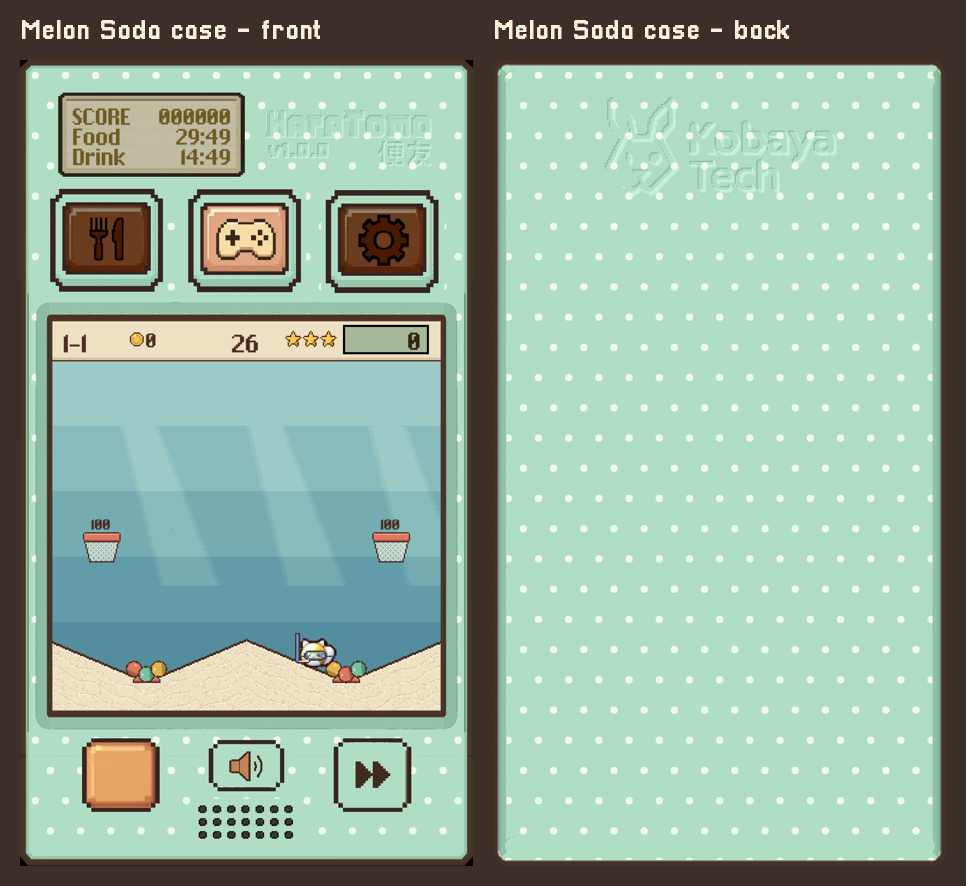
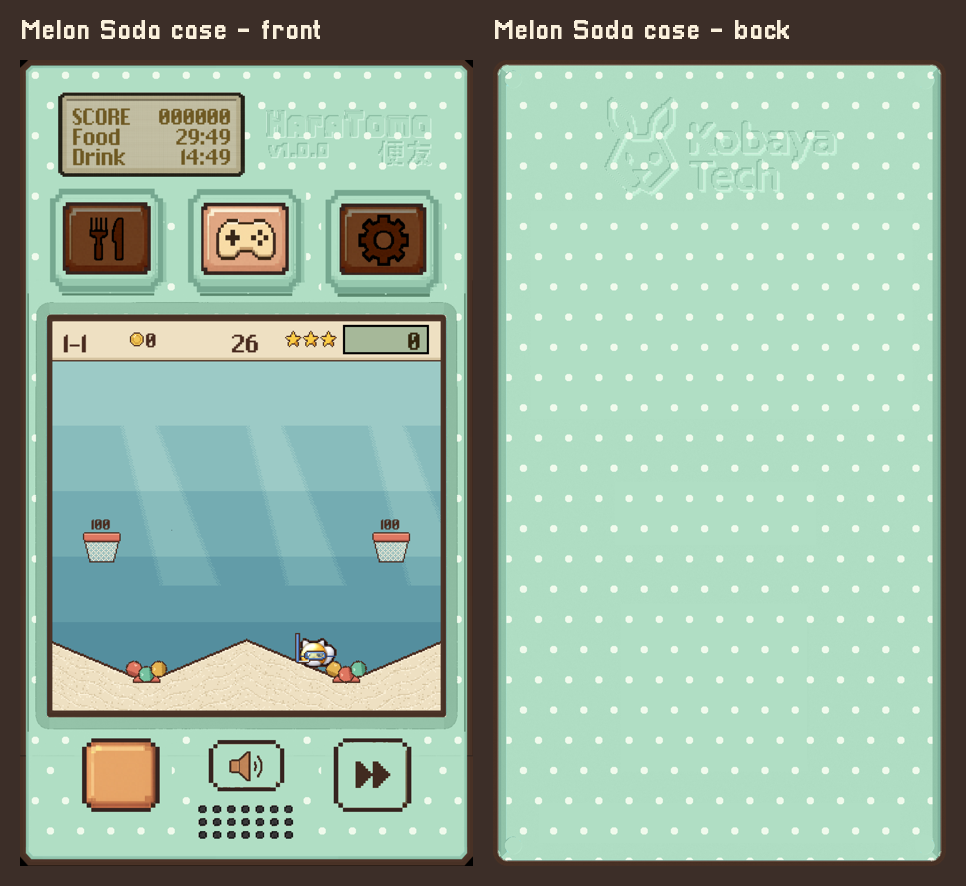
Melon Soda case front: menu frames back to the darker edge tone; bottom buttons untouched (no leak into their lower edge), no half dots by them or the speaker

Changed region(s): [[0.0311, 0.2133, 0.4658, 0.3352]]

diff --git a/tools/art/case_melon.py b/tools/art/case_melon.py
@@ -61,7 +61,7 @@ def make(path, keep_boxes, cover=(), logo_box=None, logo_tones=None, front_logo=
         ring &= ~shell                                 # (only the button's own frame: not the case round it)
         lum = rgb.sum(-1)
         hi = ring & (lum >= 600); mid = ring & (lum >= 330) & (lum < 600); lo = ring & (lum < 330)
-        rgb[hi] = BODY; rgb[mid] = (150, 200, 174)    # the bump: case colour (its dark brown outlines left as they are)
+        rgb[hi] = BODY; rgb[mid] = (150, 200, 174); rgb[lo] = EDGE   # the bump: case colour, its edge a darker tone
         # in the hole: whatever is OUTSIDE the button's dark outline (cream corners, a brown spot) is
         # case; inside the outline the button keeps every colour of its own
         sub = rgb[iy0 - 4:iy1 + 4, ix0 - 4:ix1 + 4]
@@ -81,9 +81,15 @@ def make(path, keep_boxes, cover=(), logo_box=None, logo_tones=None, front_logo=
     if path.endswith('w0_play.png'):
         # round every button: whatever light lies outside its dark outline (a cream stripe under it,
         # its lower corners) is case; the button and its outline stay exactly as they are
-        for (ox0, oy0, ox1, oy1) in AROUND:
+        from scipy.ndimage import binary_fill_holes
+        for (ox0, oy0, ox1, oy1) in AROUND[3:]:            # (the bottom buttons: the menu ones are done above)
             sub = rgb[oy0:oy1, ox0:ox1]
-            openp = sub.sum(-1) >= 330
+            # the button itself: its dark outline and everything inside it, never touched
+            dk = sub.sum(-1) < 330
+            lb, nb = label(dk)
+            sizes = [(lb == i).sum() for i in range(1, nb + 1)]
+            btn = binary_fill_holes(lb == (int(np.argmax(sizes)) + 1)) if nb else np.zeros_like(dk)
+            openp = (sub.sum(-1) >= 330) & ~btn
             lab_, n_ = label(openp)
             ids = set(np.unique(np.concatenate([lab_[0], lab_[-1], lab_[:, 0], lab_[:, -1]]))) - {0}
             outside = np.isin(lab_, list(ids)) & (np.abs(sub - BODY).sum(-1) > 30) & (np.abs(sub - np.array(DOT)).sum(-1) > 30)
@@ -106,6 +112,8 @@ front_keep = [(102, 338, 312, 512), (432, 338, 642, 512), (762, 338, 972, 512),
               (160, 1627, 320, 1778), (460, 1630, 620, 1736), (760, 1627, 920, 1778),
               (65, 608, 1016, 1565), (96, 86, 530, 274)]
 NODOTS.append(SPEAKER)
+for (x0, y0, x1, y1) in AROUND[3:]:
+    NODOTS.append((x0 - 10, y0 - 10, x1 + 10, y1 + 10))      # (no half dots touching the bottom buttons)
 F = make(SP + 'shots9/w0_play.png', front_keep, front_logo=(575, 105, 1000, 265))
 NODOTS.clear()                 # (the front's button frames: not on the back)
 B = make('textures/console/back.png', [], cover=[(90, 360, 1000, 855), (305, 1295, 750, 1695), (290, 1005, 770, 1155), (110, 1770, 970, 1865)],
